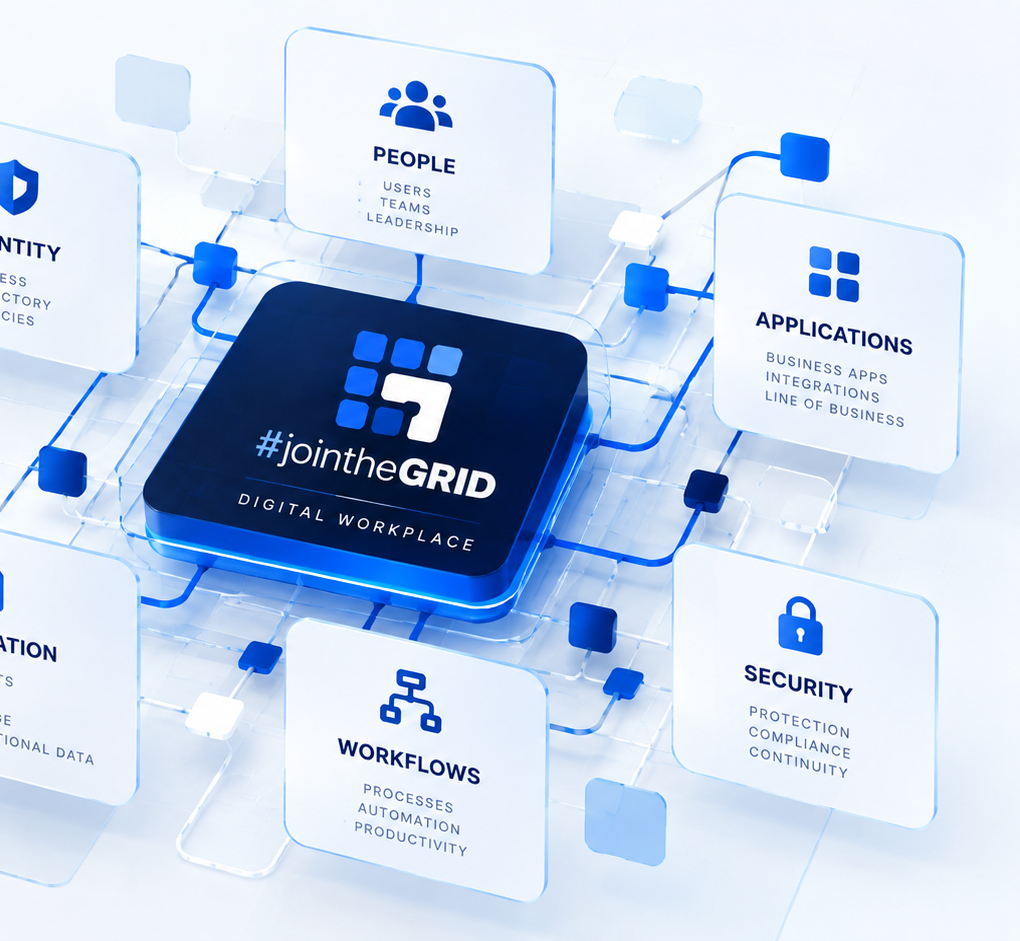
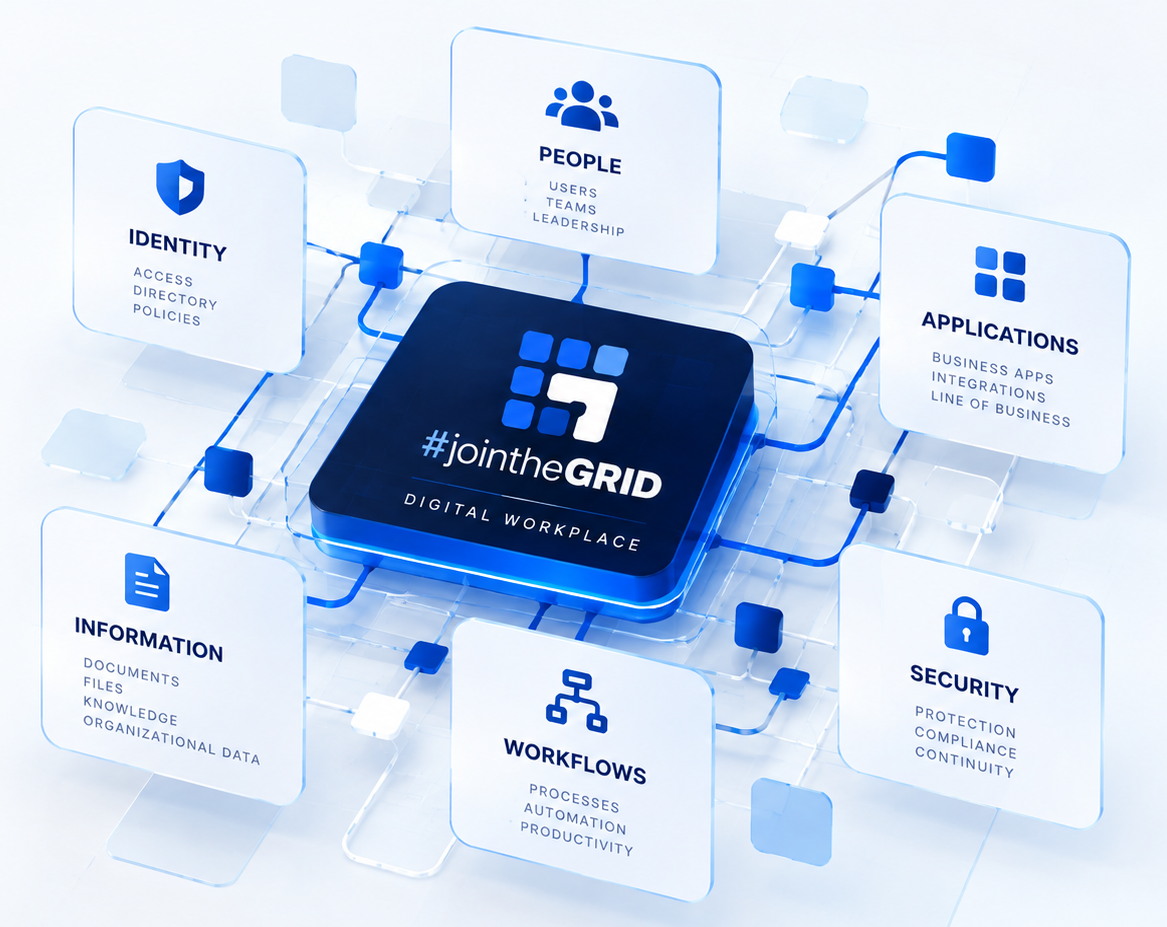
Replace interoperability graphic with supplied isometric artwork

diff --git a/components/brand/interoperability-graphic.tsx b/components/brand/interoperability-graphic.tsx
@@ -32,8 +32,8 @@ export function InteroperabilityGraphic({ className }: { className?: string }) {
       <Image
         src={INTEROP_IMAGE}
         alt="Isometric view of the digital workplace connected to people, identity, applications, information, workflows, and security on the GRID."
-        width={1020}
-        height={941}
+        width={1167}
+        height={927}
         sizes="(max-width: 1024px) 100vw, 50vw"
         className={cn(
           "h-auto w-full select-none",

diff --git a/public/brand/README.md b/public/brand/README.md
@@ -10,7 +10,6 @@ SVG assets derived from the official brand reference. Replace with final exporte
 | `jointhegrid-monochrome.svg` | Monochrome version |
 | `jointhegrid-reversed.svg` | Dark background version |
 | `hero-connected-ecosystem.png` | Homepage hero — connected workplace graphic |
-| `interoperability-section-full.png` | Interoperability section source artboard |
 | `interoperability-ecosystem.png` | Interoperability section — isometric ecosystem graphic |
 
 Reference image: see project assets folder for the authoritative brand sheet.
